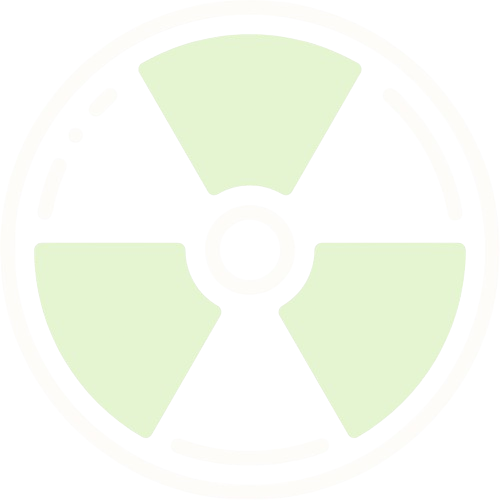
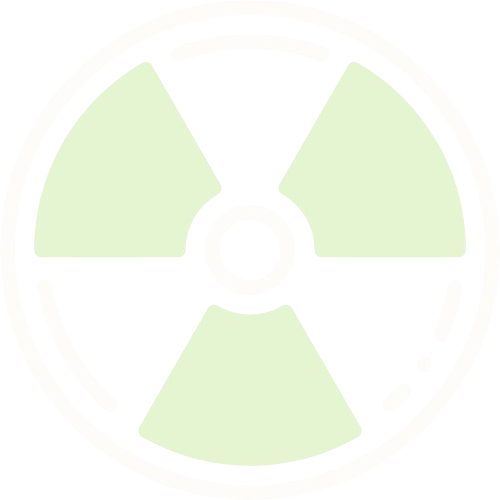
update

diff --git a/src/Componentes/Sugestoes/Sugestoes.jsx b/src/Componentes/Sugestoes/Sugestoes.jsx
@@ -4,41 +4,12 @@ import Head from "../Helper/Head";
 import Footer from "../Footer";
 import ImgBaloon from "../../assets/balao-sugestao.png";
 import TextAreaImg from "../../assets/textarea-sugestao.png";
-import emailjs from "@emailjs/browser";
 import useAddClassName from "../../Hooks/useAddClassName";
+import useFormSugestoes from "../../Hooks/useFormSugestoes";
 
 const Sugestoes = () => {
   useAddClassName();
-  const [form, setForm] = React.useState({
-    nome: "",
-    textarea: "",
-  });
-
-  React.useEffect(() => {
-    emailjs.init("S7MmKe84IxrIf2XJK");
-  }, []);
-
-  function handleSubmit(e) {
-    e.preventDefault();
-
-    if (!form.nome || !form.textarea) return false;
-
-    emailjs
-      .send("service_4s0cv2p", "template_7aen7un", {
-        name: form.nome,
-        message: form.textarea,
-      })
-      .then(() => {
-        alert("Sugestão enviada com sucesso!");
-        setForm({ nome: "", textarea: "" });
-      })
-      .catch((e) => alert("Erro, tente novamente!", e));
-  }
-
-  function handleChange({ target }) {
-    const { id, value } = target;
-    setForm({ ...form, [id]: value });
-  }
+  const { form, handleChange, handleSubmit, loading } = useFormSugestoes();
 
   return (
     <>
@@ -86,7 +57,7 @@ const Sugestoes = () => {
           </p>
         </div>
       </section>
-      <Footer prev="/banco-de-imagens" />
+      <Footer loading={loading} prev="/banco-de-imagens" />
     </>
   );
 };

diff --git a/src/Componentes/Footer.jsx b/src/Componentes/Footer.jsx
@@ -1,10 +1,9 @@
-import React from "react";
 import styles from "./Footer.module.css";
 import ImgNext from "../assets/avancar-prox-pagina.png";
 import ImgPrev from "../assets/img-prev.png";
 import { Link, useLocation } from "react-router";
 
-const Footer = ({ next, prev }) => {
+const Footer = ({ next, prev, loading }) => {
   const { pathname } = useLocation();
 
   return (
@@ -21,13 +20,19 @@ const Footer = ({ next, prev }) => {
         </Link>
       )}
       {pathname === "/sugestoes" ? (
-        <button
-          className={`${styles.buttonSugestoes} font-btn-sugestao`}
-          type="submit"
-          form="sendEmail"
-        >
-          Enviar
-        </button>
+        loading ? (
+          <button disabled className={`${styles.buttonSugestoes} font-btn-sugestao`}>
+            Carregando...
+          </button>
+        ) : (
+          <button
+            className={`${styles.buttonSugestoes} font-btn-sugestao`}
+            type="submit"
+            form="sendEmail"
+          >
+            Enviar
+          </button>
+        )
       ) : (
         <Link to={next} aria-label="Avançar para a próxima página.">
           <img

diff --git a/src/Hooks/useFormSugestoes.jsx b/src/Hooks/useFormSugestoes.jsx
@@ -1,0 +1,50 @@
+import React from "react";
+import emailjs from "@emailjs/browser";
+
+const useFormSugestoes = () => {
+  const [form, setForm] = React.useState({
+    nome: "",
+    textarea: "",
+  });
+  const [loading, setLoading] = React.useState(false);
+  const [error, setError] = React.useState(null);
+
+  React.useEffect(() => {
+    emailjs.init("xBuCUik-xTfB3Nk_9");
+  }, []);
+
+  async function handleSubmit(e) {
+    e.preventDefault();
+
+    if (!form.nome || !form.textarea) return false;
+    setLoading(true);
+
+    try {
+      await emailjs.send("service_j7s471w", "template_bf3igd9", {
+        name: form.nome,
+        message: form.textarea,
+      });
+      alert("Sugestão enviada com sucesso!");
+      setForm({ nome: "", textarea: "" });
+    } catch (e) {
+      setError(e.message);
+    } finally {
+      setLoading(false);
+    }
+  }
+
+  function handleChange({ target }) {
+    const { id, value } = target;
+    setForm({ ...form, [id]: value });
+  }
+
+  return {
+    handleSubmit,
+    handleChange,
+    loading,
+    form,
+    error,
+  };
+};
+
+export default useFormSugestoes;

diff --git a/src/Componentes/Rotinas/RoutineBox.module.css b/src/Componentes/Rotinas/RoutineBox.module.css
@@ -90,6 +90,16 @@
   }
 }
 
+.mainArrows {
+  position: relative;
+  left: 600px;
+}
+
+.boxArrows {
+  display: flex;
+  justify-content: space-between;
+}
+
 @media screen and (min-width: 80rem) and (max-width: 90rem) {
   .containerImgRoutine {
     position: relative;

diff --git a/src/Componentes/Helper/Error.jsx b/src/Componentes/Helper/Error.jsx
@@ -1,0 +1,6 @@
+const Error = ({ error }) => {
+  if (!error) return null;
+  return <p style={{ color: "#f31", margin: "1rem 0" }}>{error}</p>;
+};
+
+export default Error;

diff --git a/src/Componentes/Introducao.module.css b/src/Componentes/Introducao.module.css
@@ -6,7 +6,7 @@
 
 @media screen and (min-width: 48rem) and (max-width: 64rem) {
   .initialContainerImg {
-    margin-top: -4rem;
+    margin-top: -5.5rem;
   }
 }
 

diff --git a/src/Componentes/Rotinas/RoutineImage.jsx b/src/Componentes/Rotinas/RoutineImage.jsx
@@ -1,5 +1,3 @@
-import React from "react";
-
 const RoutineImage = ({ src, alt, className }) => {
   return (
     <div className={className}>

diff --git a/src/Componentes/Footer.module.css b/src/Componentes/Footer.module.css
@@ -46,6 +46,10 @@
   box-shadow: 0 0 0 0;
 }
 
+.buttonSugestoes:disabled {
+  cursor: wait;
+}
+
 .imgNext,
 .imgPrev {
   height: 50px;
